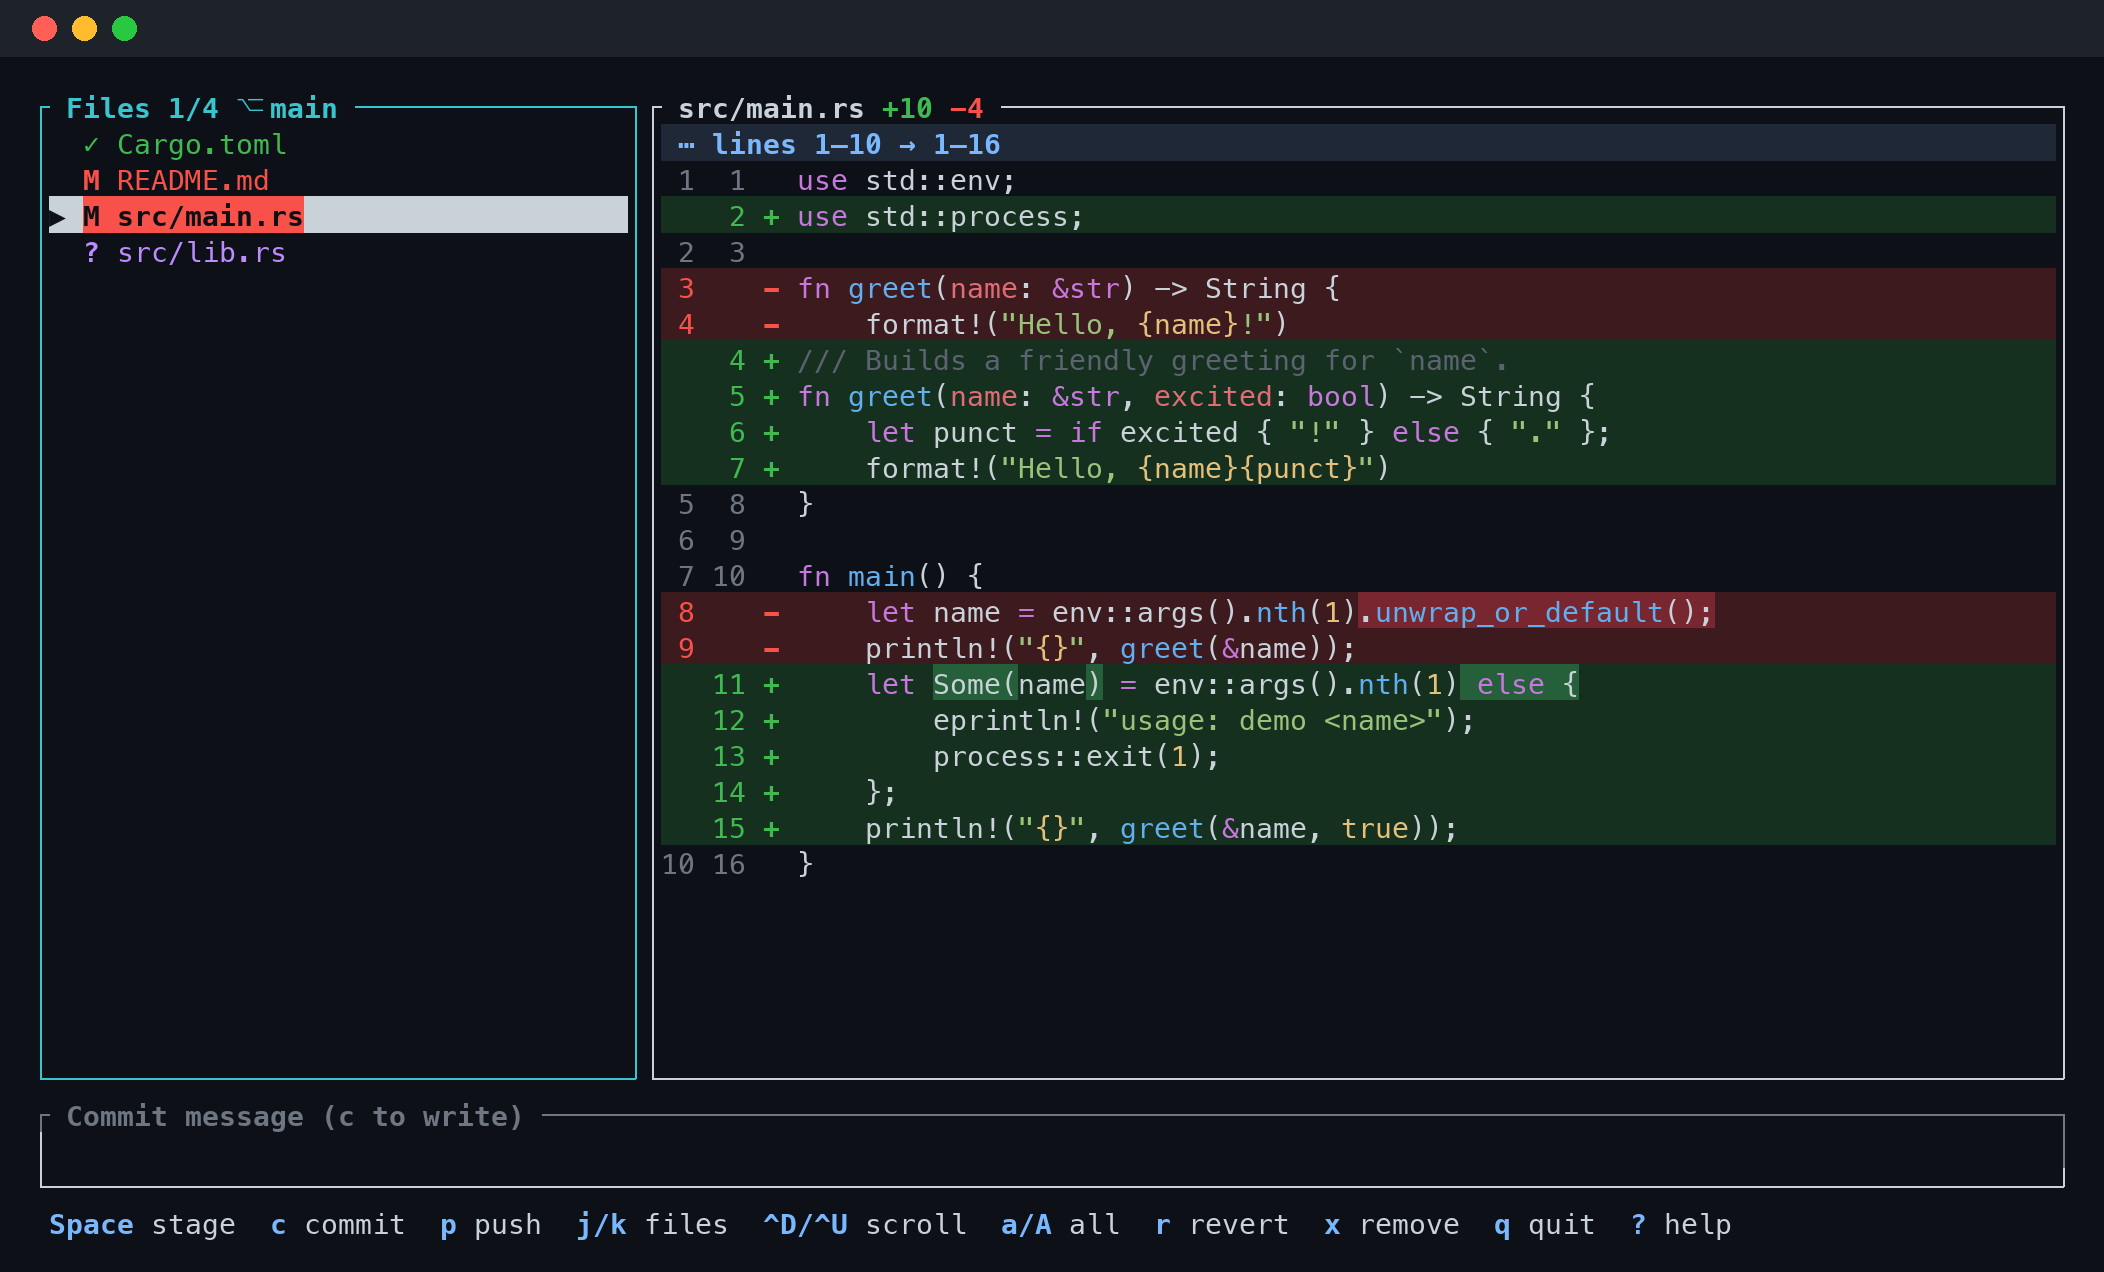
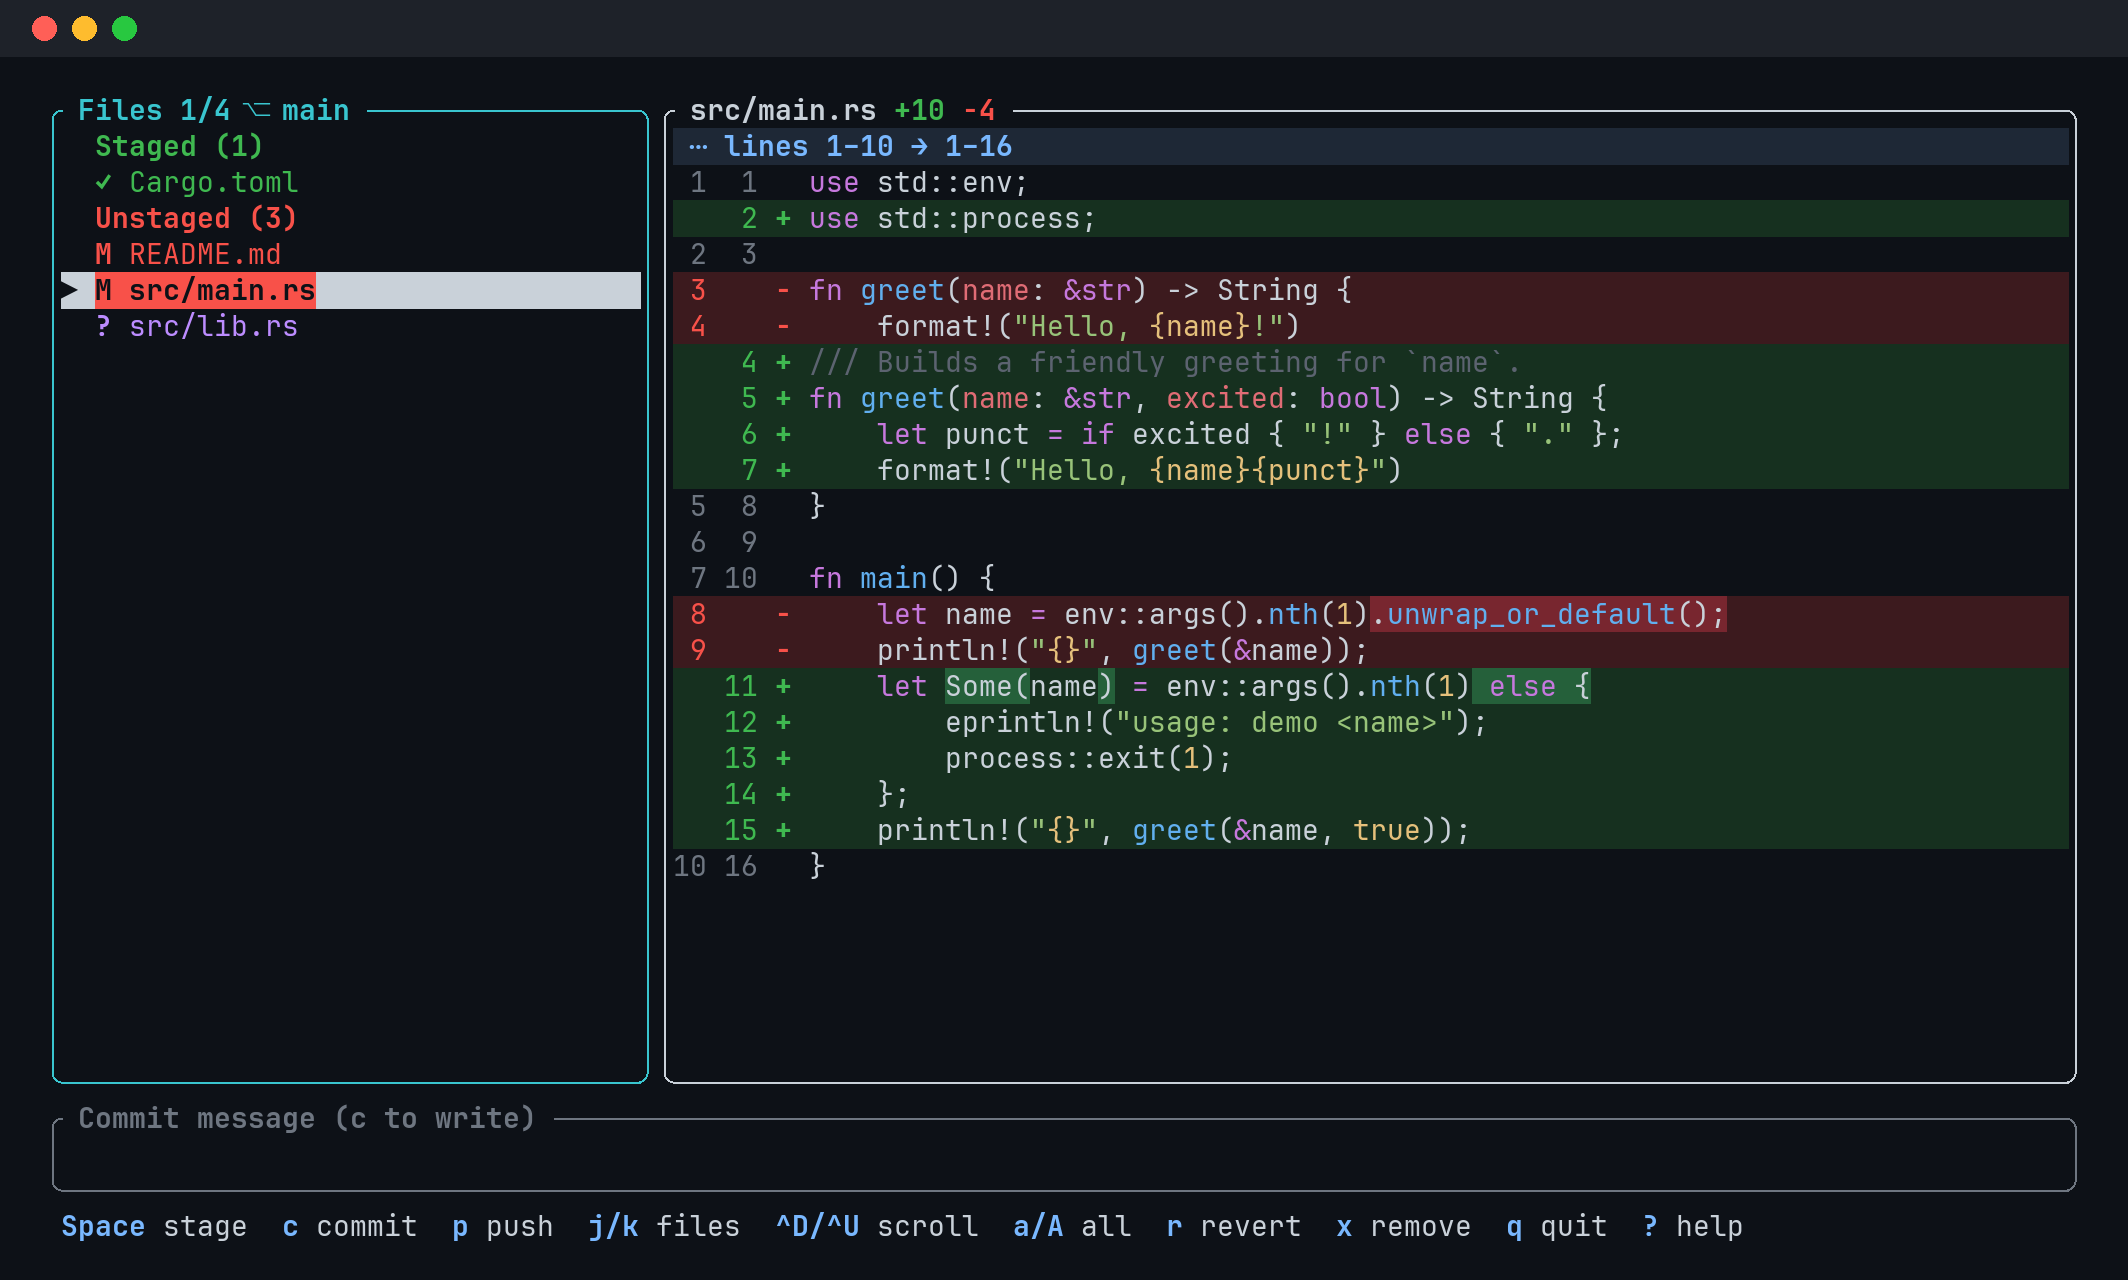
feat: split the file list into Staged and Unstaged sections (#22)

diff --git a/src/app.rs b/src/app.rs
@@ -15,6 +15,7 @@ use crate::git::GitResult;
 use crate::git::Repo;
 use crate::theme::Theme;
 use crate::types::FileEntry;
+use crate::types::FileGroup;
 
 /// How often the file list is re-read from git while idle.
 const AUTO_REFRESH: Duration = Duration::from_secs(3);
@@ -54,6 +55,15 @@ pub enum MessageKind {
 	Error,
 }
 
+/// One row of the file list: a group header or a file.
+#[derive(Debug, Clone, Copy, PartialEq, Eq)]
+pub enum ListRow {
+	/// Section header with the number of files in the group.
+	Header(FileGroup, usize),
+	/// Index into [`App::files`].
+	File(usize),
+}
+
 /// A transient message shown in the commit bar title.
 #[derive(Debug, Clone)]
 pub struct Message {
@@ -75,11 +85,12 @@ pub struct App {
 	pub theme: Theme,
 	/// Branch description from `git status --branch`.
 	pub branch: String,
-	/// List of changed/untracked files from `git status`.
+	/// List of changed/untracked files from `git status`, staged group first.
 	pub files: Vec<FileEntry>,
 	/// Index into `files` of the currently highlighted entry.
 	pub selected: usize,
-	/// Ratatui list widget state, kept in sync with `selected`.
+	/// Ratatui list widget state, kept in sync with `selected` (indexes
+	/// [`list_rows`](App::list_rows), which include group headers).
 	pub list_state: ListState,
 	/// Processed diff for the currently selected file.
 	pub diff: DiffView,
@@ -164,6 +175,8 @@ impl App {
 
 		self.branch = status.branch;
 		self.files = status.files;
+		// Stable sort: git's path order is kept inside each group.
+		self.files.sort_by_key(FileEntry::group);
 
 		if self.files.is_empty() {
 			self.selected = 0;
@@ -183,7 +196,7 @@ impl App {
 			self.selected = self.selected.min(self.files.len() - 1);
 		}
 
-		self.list_state.select(Some(self.selected));
+		self.list_state.select(Some(self.row_of(self.selected)));
 
 		let same_file = previous.as_deref() == self.selected_file().map(|f| f.path.as_str());
 		if !same_file {
@@ -256,7 +269,7 @@ impl App {
 		}
 
 		self.selected = index.min(self.files.len() - 1);
-		self.list_state.select(Some(self.selected));
+		self.list_state.select(Some(self.row_of(self.selected)));
 		self.diff_scroll = 0;
 		self.diff_hscroll = 0;
 		self.load_diff();
@@ -287,7 +300,40 @@ impl App {
 		self.select(self.files.len().saturating_sub(1));
 	}
 
+	/// Rows of the file list: a header before each non-empty group, then its files.
+	pub fn list_rows(&self) -> Vec<ListRow> {
+		let mut rows = Vec::with_capacity(self.files.len() + 2);
+		let mut current = None;
+		for (i, file) in self.files.iter().enumerate() {
+			let group = file.group();
+			if current != Some(group) {
+				current = Some(group);
+				let count = self.files[i..]
+					.iter()
+					.take_while(|f| f.group() == group)
+					.count();
+				rows.push(ListRow::Header(group, count));
+			}
+
+			rows.push(ListRow::File(i));
+		}
+
+		rows
+	}
+
+	/// List row of the file at `index` (accounts for the group headers above it).
+	pub fn row_of(&self, index: usize) -> usize {
+		let staged = self
+			.files
+			.iter()
+			.take_while(|f| f.group() == FileGroup::Staged)
+			.count();
+		// The first group always has a header; files past it also sit below the second.
+		index + 1 + usize::from(staged > 0 && index >= staged)
+	}
+
 	/// Selects the file at screen row `row` (mouse click in the file list).
+	/// Clicks on group headers are ignored.
 	pub fn click_file(&mut self, row: u16) {
 		let inner_top = self.files_area.y + 1;
 		if row < inner_top || row >= self.files_area.bottom().saturating_sub(1) {
@@ -295,8 +341,8 @@ impl App {
 		}
 
 		let index = self.list_state.offset() + usize::from(row - inner_top);
-		if index < self.files.len() {
-			self.select(index);
+		if let Some(ListRow::File(file)) = self.list_rows().get(index) {
+			self.select(*file);
 		}
 	}
 

diff --git a/tests/app.rs b/tests/app.rs
@@ -1,4 +1,12 @@
+mod common;
+
+use common::TempRepo;
+use gitrat::app::App;
+use gitrat::app::ListRow;
 use gitrat::app::delete_last_word;
+use gitrat::theme::Theme;
+use gitrat::types::FileGroup;
+use ratatui::layout::Rect;
 
 #[test]
 fn deletes_last_word() {
@@ -11,4 +19,97 @@ fn deletes_last_word() {
 	assert_eq!(text, "");
 	delete_last_word(&mut text);
 	assert_eq!(text, "");
+}
+
+fn paths(app: &App) -> Vec<&str> {
+	app.files.iter().map(|f| f.path.as_str()).collect()
+}
+
+fn assert_rows_match(app: &App) {
+	let rows = app.list_rows();
+	for i in 0..app.files.len() {
+		assert_eq!(rows[app.row_of(i)], ListRow::File(i));
+	}
+}
+
+#[test]
+fn groups_staged_files_first() {
+	let t = TempRepo::new();
+	t.write("a.txt", "a\n");
+	t.write("b.txt", "b\n");
+	t.write("c.txt", "c\n");
+	t.git(&["add", "c.txt"]);
+
+	let app = App::new(t.repo.clone(), Theme::new(true, false));
+	assert_eq!(paths(&app), ["c.txt", "a.txt", "b.txt"]);
+	assert_eq!(
+		app.list_rows(),
+		[
+			ListRow::Header(FileGroup::Staged, 1),
+			ListRow::File(0),
+			ListRow::Header(FileGroup::Unstaged, 2),
+			ListRow::File(1),
+			ListRow::File(2),
+		]
+	);
+	assert_rows_match(&app);
+}
+
+#[test]
+fn hides_empty_groups() {
+	let t = TempRepo::new();
+	t.write("a.txt", "a\n");
+	let mut app = App::new(t.repo.clone(), Theme::new(true, false));
+	assert_eq!(
+		app.list_rows(),
+		[ListRow::Header(FileGroup::Unstaged, 1), ListRow::File(0)]
+	);
+	assert_rows_match(&app);
+
+	app.stage_all();
+	assert_eq!(
+		app.list_rows(),
+		[ListRow::Header(FileGroup::Staged, 1), ListRow::File(0)]
+	);
+	assert_rows_match(&app);
+}
+
+#[test]
+fn selection_follows_file_across_groups() {
+	let t = TempRepo::new();
+	t.write("a.txt", "a\n");
+	t.write("b.txt", "b\n");
+	let mut app = App::new(t.repo.clone(), Theme::new(true, false));
+	app.next();
+	assert_eq!(app.selected_file().unwrap().path, "b.txt");
+
+	app.toggle_stage();
+	assert_eq!(paths(&app), ["b.txt", "a.txt"]);
+	assert_eq!(app.selected_file().unwrap().path, "b.txt");
+	assert_eq!(app.list_state.selected(), Some(1));
+
+	app.toggle_stage();
+	assert_eq!(paths(&app), ["a.txt", "b.txt"]);
+	assert_eq!(app.selected_file().unwrap().path, "b.txt");
+	assert_eq!(app.list_state.selected(), Some(2));
+}
+
+#[test]
+fn click_skips_group_headers() {
+	let t = TempRepo::new();
+	t.write("a.txt", "a\n");
+	t.write("b.txt", "b\n");
+	t.git(&["add", "b.txt"]);
+	let mut app = App::new(t.repo.clone(), Theme::new(true, false));
+	app.files_area = Rect::new(0, 0, 30, 10);
+
+	// Rows: 1 "Staged", 2 b.txt, 3 "Unstaged", 4 a.txt.
+	app.click_file(4);
+	assert_eq!(app.selected_file().unwrap().path, "a.txt");
+	app.click_file(1);
+	assert_eq!(app.selected_file().unwrap().path, "a.txt");
+	app.click_file(3);
+	assert_eq!(app.selected_file().unwrap().path, "a.txt");
+	app.click_file(2);
+	assert_eq!(app.selected_file().unwrap().path, "b.txt");
 }

diff --git a/src/ui.rs b/src/ui.rs
@@ -20,12 +20,14 @@ use unicode_width::UnicodeWidthStr;
 
 use crate::app::App;
 use crate::app::Confirm;
+use crate::app::ListRow;
 use crate::app::MessageKind;
 use crate::app::Mode;
 use crate::diff::Row;
 use crate::diff::RowKind;
 use crate::git::sanitize;
 use crate::theme::Theme;
+use crate::types::FileGroup;
 use crate::types::FileStatus;
 
 // Only the 16 ANSI colours are used (plus Reset, the terminal's own foreground),
@@ -109,10 +111,25 @@ fn render_file_list(frame: &mut Frame, app: &mut App, area: Rect) {
 	// Room for border (2), highlight symbol (2), status icon and space (2).
 	let max_path = usize::from(area.width.saturating_sub(6));
 
-	let items: Vec<ListItem> = app
-		.files
+	let rows = app.list_rows();
+	let items: Vec<ListItem> = rows
 		.iter()
-		.map(|file| {
+		.map(|row| {
+			let file = match *row {
+				ListRow::Header(group, count) => {
+					let (name, color) = match group {
+						FileGroup::Staged => ("Staged", Color::Green),
+						FileGroup::Unstaged => ("Unstaged", Color::Red),
+					};
+
+					return ListItem::new(Line::styled(
+						format!("{name} ({count})"),
+						Style::default().fg(color).add_modifier(Modifier::BOLD),
+					));
+				}
+				ListRow::File(i) => &app.files[i],
+			};
+
 			let (icon, color) = status_style(file.status);
 			let path = match &file.orig_path {
 				Some(orig) => format!("{} → {}", sanitize(orig), sanitize(&file.path)),
@@ -142,6 +159,15 @@ fn render_file_list(frame: &mut Frame, app: &mut App, area: Rect) {
 		.block(panel(Line::from(title), app.mode == Mode::Normal))
 		.highlight_style(Style::default().add_modifier(Modifier::REVERSED | Modifier::BOLD))
 		.highlight_symbol("▶ ");
+
+	// Keep the group header visible when its first file is selected at the top.
+	if let Some(selected) = app.list_state.selected()
+		&& selected > 0
+		&& app.list_state.offset() >= selected
+		&& matches!(rows.get(selected - 1), Some(ListRow::Header(..)))
+	{
+		*app.list_state.offset_mut() = selected - 1;
+	}
 
 	frame.render_stateful_widget(list, area, &mut app.list_state);
 }

diff --git a/tests/ui.rs b/tests/ui.rs
@@ -42,3 +42,32 @@ fn renders_in_small_and_large_terminals() {
 		}
 	}
 }
+
+#[test]
+fn renders_group_headers() {
+	let t = TempRepo::new();
+	t.write("staged.txt", "s\n");
+	t.write("unstaged.txt", "u\n");
+	t.git(&["add", "staged.txt"]);
+	let mut app = App::new(t.repo.clone(), Theme::new(true, false));
+
+	let mut terminal = Terminal::new(TestBackend::new(100, 20)).unwrap();
+	terminal.draw(|f| render(f, &mut app)).unwrap();
+	let screen: Vec<String> = (0..20)
+		.map(|y| {
+			(0..30)
+				.map(|x| terminal.backend().buffer()[(x, y)].symbol().to_string())
+				.collect()
+		})
+		.collect();
+
+	let line = |text: &str| {
+		screen
+			.iter()
+			.position(|l| l.contains(text))
+			.unwrap_or_else(|| panic!("{text:?} not rendered:\n{}", screen.join("\n")))
+	};
+	assert!(line("Staged (1)") < line("staged.txt"));
+	assert!(line("staged.txt") < line("Unstaged (1)"));
+	assert!(line("Unstaged (1)") < line("unstaged.txt"));
+}

diff --git a/src/types.rs b/src/types.rs
@@ -40,4 +40,24 @@ impl FileEntry {
 	pub fn is_new_in_index(&self) -> bool {
 		self.index == 'A'
 	}
+
+	/// The list section this file belongs to.
+	///
+	/// Files with both staged and unstaged changes (`±`) stay in the staged group,
+	/// since part of them goes into the next commit.
+	pub fn group(&self) -> FileGroup {
+		match self.status {
+			FileStatus::Staged | FileStatus::StagedModified => FileGroup::Staged,
+			_ => FileGroup::Unstaged,
+		}
+	}
+}
+
+/// Section of the file list an entry is shown in.
+#[derive(Debug, Clone, Copy, PartialEq, Eq, PartialOrd, Ord)]
+pub enum FileGroup {
+	/// Changes that will go into the next commit.
+	Staged,
+	/// Working-tree changes, untracked and conflicted files.
+	Unstaged,
 }

diff --git a/CLAUDE.md b/CLAUDE.md
@@ -58,3 +58,4 @@ gitrat is a terminal UI (TUI) for staging, viewing diffs, and committing — a l
 - `p` pushes on a background thread; sets upstream (`branch.<b>.pushRemote`, `remote.pushDefault`, `origin`, or the only remote) when missing; ssh runs with `BatchMode=yes` unless the user configured an ssh command.
 - Diff scroll: `Ctrl-D/U` half page, `Ctrl-F/B` page, `J/K` line, `g/G`, `h/l` horizontal, mouse wheel. Letter bindings exist because Terminal.app swallows PageUp/PageDown/Home/End.
 - `FileStatus::StagedModified` shows staged and unstaged diffs as separate sections (`DiffSection` titles).
+- The file list is split into Staged/Unstaged groups (`FileEntry::group`; `±` files stay in Staged). `App::files` is sorted by group; `list_state` indexes `App::list_rows()` (headers included), so use `App::row_of` to map a file index to a list row. Empty groups have no header.
